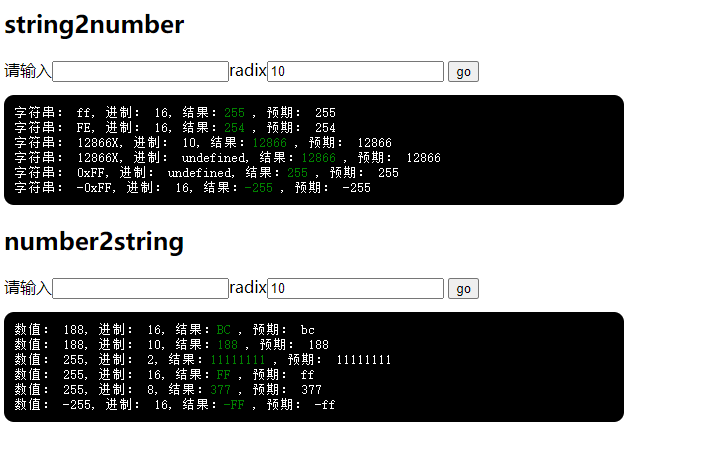
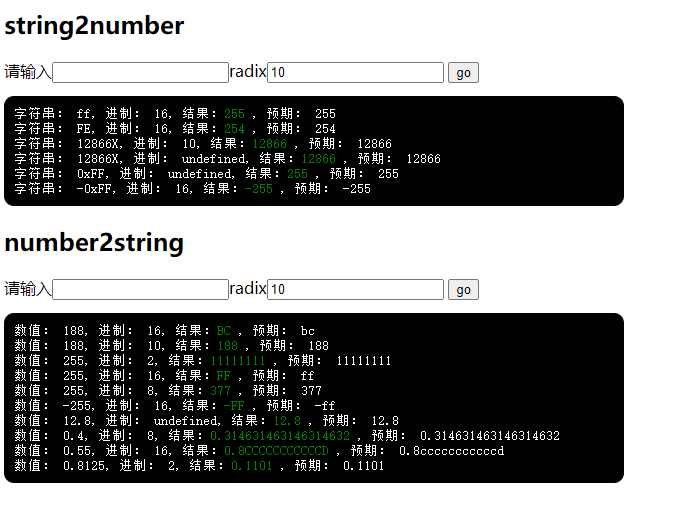
update week 05

Changed region(s): [[0.0, 0.0304, 0.9224, 0.9435]]

diff --git a/Week_05/02/index.js b/Week_05/02/index.js
@@ -1,6 +1,7 @@
+// 36 进制以内有效的字符
 const numbers = '0123456789' + [...new Array(26)].map((_, i) => String.fromCharCode(65 + i)).join('');
 /**
- * 字符串转数值
+ * 字符串转数值 参考 parseInt 的规范实现
  * @param {string} str 要处理的字符串
  * @param {number | undefined} radix 进制 2~36
  */
@@ -79,9 +80,16 @@ function number2string(num, radix) {
     if (negative) {
         num = -num;
     }
+    const pointIndex = ('' + num).indexOf('.');
 
-    let n = num;
-    let str = [];
+    // #region 整数部分
+    let n;
+    if (pointIndex != -1) {
+        n = num >> 0;
+    } else {
+        n = num;
+    }
+    let str = '';
 
     while (n >= radix) {
         let s = n % radix;
@@ -91,6 +99,29 @@ function number2string(num, radix) {
     if (n != 0) {
         str = numbers[n] + str;
     }
+
+    // #endregion
+
+    // #region 小数部分 小数 * 进制 余数继续此操作
+    if (pointIndex !== -1) {
+        if (!str) {
+            str = '0';
+        }
+        str += '.';
+        // todo： 如何提取数值的小数部分 不转字符串的情况下 很难精确提取数值的小数部分 也许是我没想到 ？
+        n = Number((num + '').substr(pointIndex));
+
+        const limitLen = 18;
+        let i = 0;
+
+        while (i++ < limitLen && n) {
+            let t = n * radix;
+            s = t >> 0;
+            n = t - s;
+            str += numbers[s];
+        }
+    }
+    // #endregion
 
     return negative ? '-' + str : str;
 }

diff --git a/Week_05/02/index.html b/Week_05/02/index.html
@@ -22,7 +22,7 @@
     </style>
 </head>
 
-<body>
+<body style="opacity: 1;">
     <h2>string2number</h2>
     <div>
         <label>请输入<input type="text" id="string2number"></label><label>radix<input type="text" value="10" id="string2numberradix"></label>
@@ -84,6 +84,11 @@
         testNum2string(255, 16)
         testNum2string(255, 8)
         testNum2string(-255, 16)
+        testNum2string(12.8)
+        testNum2string(.4, 8)
+        testNum2string(.55, 16)
+        testNum2string(254.5, 16)
+        testNum2string(0.8125, 2)
 
     </script>
 </body>

diff --git a/Week_05/README.md b/Week_05/README.md
@@ -4,6 +4,171 @@
 
 [实现](./02/index.html)
 
+**字符串转数值**
+
+使用和 `parseInt` 相同的参数，并使用它来检查结果。
+
+1. 从首位开始，逐步检查当前位置是否是指定进制内有效的字符，并将此字符对应的数值记录下来，直到遇到非法字符或传入字符结束即可
+2. 将得到的有效字符采用”按权展开求和“方法累计求和即可
+
+如字符串 `FFZ` 采用16进制转换，第三位的 `Z` 非法，第一步将得到: `[15, 15]` ，之后累加即可，即：
+
+$$15 * 16 ^ 1 + 15 * 16 ^ 0 = 255$$
+
+如果存在负数，可直接先检查字符串首位是否为 `-` ，是则去掉，最后返回时再补上即可。
+
+实现代码：
+
+```js
+// 36 进制以内有效的字符
+const numbers = '0123456789' + [...new Array(26)].map((_, i) => String.fromCharCode(65 + i)).join('');
+/**
+ * 字符串转数值 参考 parseInt 的规范实现
+ * @param {string} str 要处理的字符串
+ * @param {number | undefined} radix 进制 2~36
+ */
+function string2number(str, radix) {
+    // 强制参数为 string
+    str = (str + '').toUpperCase();
+    const negative = str[0] === '-';
+    if (negative) {
+        str = str.substr(1);
+    }
+    // 进制处理
+    if (radix === void 0) {
+        if (str[0] === '0' && str[1] === 'X') {
+            radix = 16;
+            // str = str.substr(2);
+        } else if (str[0] === '0') {
+            radix = 8;
+            // str = str.substr(1);
+        } else {
+            radix = 10;
+        }
+    } else {
+        // radix 非法
+        if (!Number.isInteger(radix) || radix < 2 || radix > 36) {
+            return NaN;
+        }
+    }
+
+    if (radix === 16 && str[0] === '0' && str[1] === 'X') {
+        str = str.substr(2);
+    } else if (radix === 8 && str[0] === '0') {
+        str = str.substr(1);
+    }
+
+    let numberArr = [];
+
+    // const reg = new RegExp()
+    const validateNumbers = numbers.substring(0, radix);
+
+    for (let i = 0; i < str.length; i++) {
+        const num = validateNumbers.indexOf(str[i]);
+        if (num === -1) {
+            break;
+        } else {
+            numberArr.push(num);
+        }
+    }
+
+    if (!numberArr.length) {
+        return NaN;
+    }
+
+    const len = numberArr.length;
+    const n = numberArr.reduce((t, c, index) => {
+        t += c * radix ** (len - index - 1);
+        return t;
+    }, 0);
+    return negative ? -n : n;
+}
+```
+
+**数值转字符串**
+
+首先分整数部分和小数部分，因为这两个部分的处理逻辑不同。
+
+针对整数部分，除进制取余，商继续取整后继续此操作，最后再将余数反向连接即可。
+
+针对小数部分，则是乘进制，整数部分作为当前尾数的小数，小数部分继续此运算，由于可能永远无法得到整数，需注意限制下位数结束循环即可。
+
+以 `254.5` 转 16 进制字符串为例：
+
+1. 整数部分 `254` , 对进制 16 取余得到 `14` , 对应字符 `E` ，剩下 `254 / 16 >> 0 = 15` 继续，再次取余得到 `15` ， 对应字符 `F` ，余下 `15/16 >> 0 = 0`， 整数部分借宿，反向连接得到字符串 `FE` ，即 `254` 转化为 16 进制字符串为 `FE`
+2. 小数部分， `0.5` , 乘以进制 16 得到 `8`， 整数部分的 8 作为第一位小数，没有小数部分，处理结束。（若有继续此过程即可）
+3. 最终得到 `FE.8`
+
+```js
+
+/**
+ * 数值转字符串
+ * @param {number} num 数值
+ * @param {number | undefined} radix 进制 2~36
+ */
+function number2string(num, radix) {
+    if (Number.isNaN(num)) return NaN;
+    if (Object.prototype.toString.call(1) !== '[object Number]') return NaN;
+    if (radix === void 0) {
+        radix = 10;
+    } else if (!Number.isInteger(radix) || radix < 2 || radix > 36) {
+        throw new RangeError('radix must be 2~36');
+    }
+
+    const negative = num < 0;
+    if (negative) {
+        num = -num;
+    }
+    const pointIndex = ('' + num).indexOf('.');
+
+    // #region 整数部分
+    let n;
+    if (pointIndex != -1) {
+        n = num >> 0;
+    } else {
+        n = num;
+    }
+    let str = '';
+
+    while (n >= radix) {
+        let s = n % radix;
+        n = (n / radix) >> 0;
+        str = numbers[s] + str;
+    }
+    if (n != 0) {
+        str = numbers[n] + str;
+    }
+
+    // #endregion
+
+    // #region 小数部分 小数 * 进制 余数继续此操作
+    if (pointIndex !== -1) {
+        if (!str) {
+            str = '0';
+        }
+        str += '.';
+        // todo： 如何提取数值的小数部分 不转字符串的情况下 很难精确提取数值的小数部分 也许是我没想到 ？
+        n = Number((num + '').substr(pointIndex));
+
+        const limitLen = 18;
+        let i = 0;
+
+        while (i++ < limitLen && n) {
+            let t = n * radix;
+            s = t >> 0;
+            n = t - s;
+            str += numbers[s];
+        }
+    }
+    // #endregion
+
+    return negative ? '-' + str : str;
+}
+
+```
+
+效果及测试验证：
+
 ![](images/2020-09-26-23-19-43.png)
 
 ## reaml
